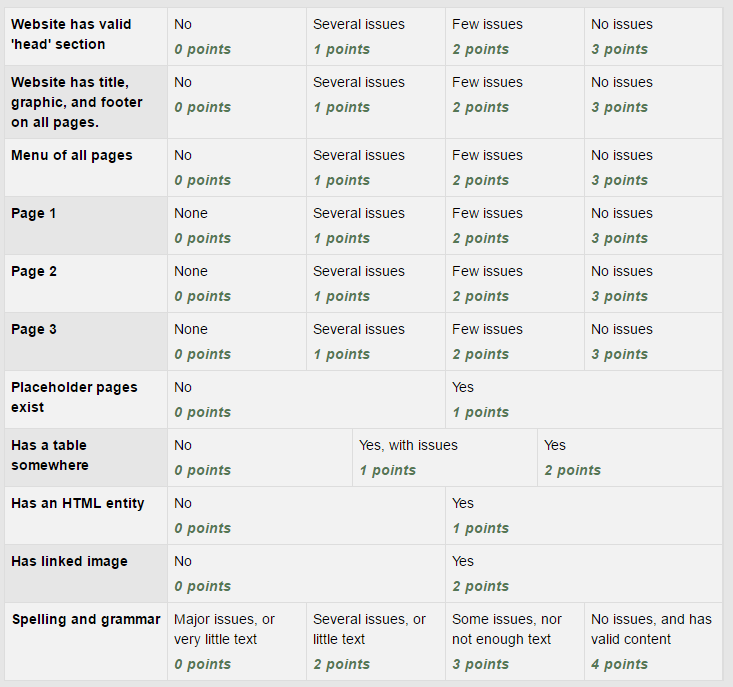
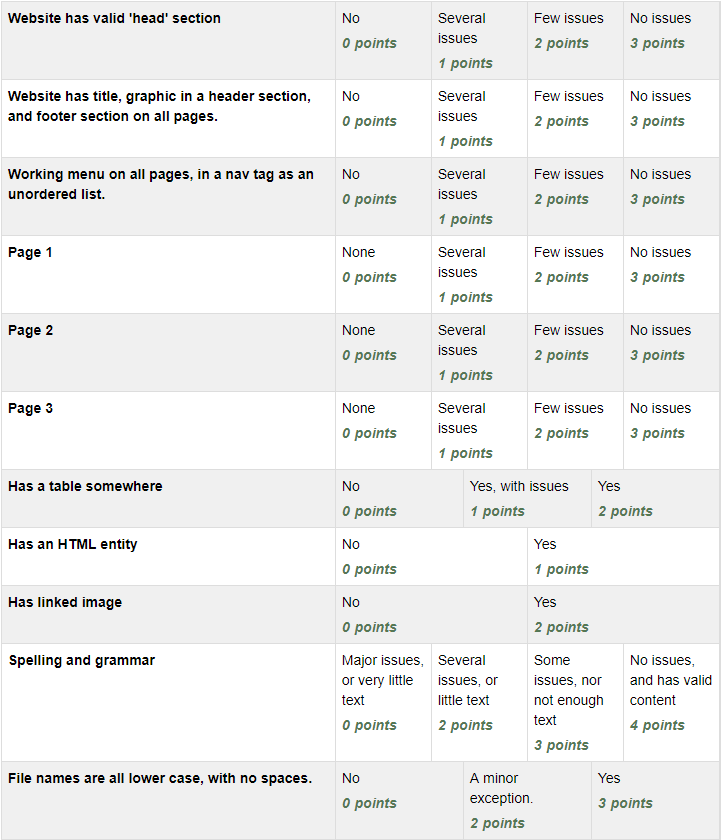
Update

diff --git a/source/assignments/01_basic_html/basic_html.rst b/source/assignments/01_basic_html/basic_html.rst
@@ -57,6 +57,14 @@ If you are gone any of these days you will get half credit. If your phone is
 out, or you are on an unrelated website, you'll be counted as gone and asked
 to leave for the day.
 
+**Remember:** The goal of this assignment is to learn. Most people get this, but
+in the past I've had just a few students who "take over" a project and devalue
+other's contributions. If you consider yourself an expert already, then take this
+as an opportunity to learn how to help and instruct other people. It is a
+"teach someone to fish" type of thing. By yourself you can only catch so many
+fish. But if you teach someone else how to fish, then the two of you can catch
+twice as many fish. Same principal for web development.
+
 Website Subject
 ---------------
 
@@ -85,6 +93,7 @@ All web pages must have text. Please create real, actual, content.
 Text must be original and not copied.
 Images should be original as well, with a few exceptions. If you want
 an exception, please see me for information on how to cite and link it.
+Images that you took yourself with a phone or camera are ok.
 
 Required Components
 -------------------
@@ -110,6 +119,9 @@ Required Components
     The link will be the page name. For example: ``<a href="about.html">About</a>``
     Links must be relative. See the example out of the tutorial for how the list
     should look. It should be inside a ``<nav>`` tag just like the example.
+    **Note:** This will look terrible, and you might be tempted to put it in a
+    table. Don't. In the CSS assignment we will make it look
+    like a menu bar.
 
 * Two Required pages
 
@@ -127,12 +139,6 @@ Required Components
     in.
   * Pages with info on a subject
 
-* Required placeholder pages. See below. Just put in a title on these two pages
-  for now. We will show how to create forms later.
-
-  * Login
-  * Sign up, or some other 'enter information' page
-
 * Required HTML elements
 
   * HEAD section on all pages
@@ -141,13 +147,13 @@ Required Components
     how to style the table later.
   * Linked in images. You may not copy the image off the web. Sketch something
     in MS Paint, or Inkscape. Or take your own photo. It doesn't have to look good.
-  * HTML entities. Toss at least one somewhere on your six pages.
+  * HTML entities. Toss at least a few on your pages. Try not to make them too
+    hard to find please.
   * Headings. Those <h1...6> tags.
   * Paragraphs
   * Tags must be lower case
   * Run a validation check on the HTML for each page. Make sure it is free of issues.
   * Check for spelling and grammar. It counts as part of the grade.
-
 
 Directory Structure
 -------------------
